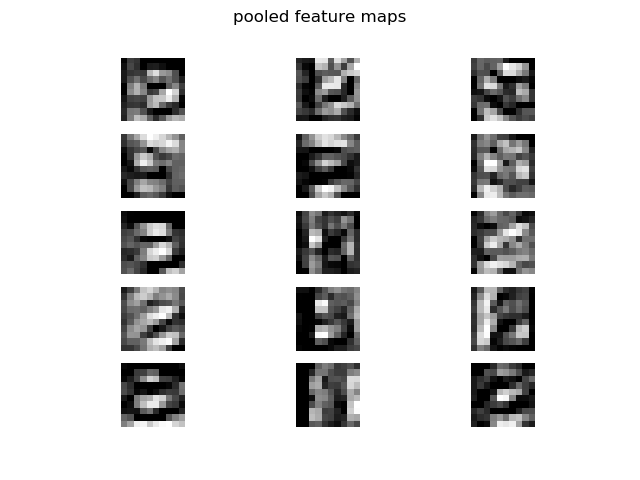
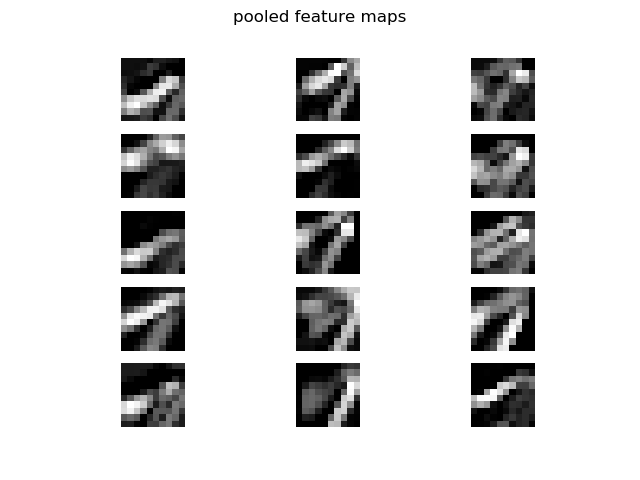
Part2a_2 is done

Changed region(s): [[0.7188, 0.0938, 0.8438, 0.9062], [0.1875, 0.125, 0.3125, 0.9062], [0.4375, 0.0938, 0.5625, 0.9062]]

diff --git a/project2a.py b/project2a.py
@@ -11,11 +11,12 @@ from theano.tensor.signal import pool
  
 np.random.seed(10)
 
+learning_rate = 0.05
 batch_size = 128
 decay_param = 1e-4
-noIters = 25
+noIters = 100
 momentum = 0.1
-part_number = 1
+part_number = 2
 debug = False
 
 def init_weights_bias4(filter_shape, d_type):
@@ -28,6 +29,10 @@ def init_weights_bias4(filter_shape, d_type):
             dtype=d_type)
     b_values = np.zeros((filter_shape[0],), dtype=d_type)
     return theano.shared(w_values,borrow=True), theano.shared(b_values, borrow=True)
+
+def init_velocity(filter_shape, d_type):
+    w_values =  np.zeros(shape=filter_shape, dtype=d_type)
+    return theano.shared(w_values, borrow=True)
 
 def init_weights_bias2(filter_shape, d_type):
     fan_in = filter_shape[1]
@@ -76,11 +81,31 @@ def create_model(X, lstWeights, lstBiases):
 
     return y
 
-def sgd(cost, params, lr=0.05, decay=0.0001):
+def sgd(cost, weights, biases, lr=0.05, decay=1e-4):
+    params = weights+biases
     grads = T.grad(cost=cost, wrt=params)
     updates = []
     for p, g in zip(params, grads):
         updates.append([p, p - (g + decay*p) * lr])
+    return updates
+
+def sgd_momentum(cost, weights, biases, velocities, 
+    lr=0.05, decay=1e-4, momentum=0.1):
+    gradW = T.grad(cost=cost, wrt=weights)
+    gradB = T.grad(cost=cost, wrt=biases)
+    updates = []
+
+    for i in range(len(gradW)):
+        updates.append(
+            (velocities[i], 
+            momentum*velocities[i]-(gradW[i] + decay*weights[i]) * lr)
+        )
+        updates.append(
+            (weights[i], weights[i]+velocities[i])
+        )
+        updates.append(
+            (biases[i],biases[i]-(gradB[i]+decay*biases[i])*lr)
+        )
     return updates
 
 def shuffle_data (samples, labels):
@@ -89,42 +114,40 @@ def shuffle_data (samples, labels):
     samples, labels = samples[idx], labels[idx]
     return samples, labels
     
-def create_weights_biases(dtype,small_weight_space=debug):
+def create_weights_biases(dtype,config):
     weights = []
     biases = []
 
-    if(small_weight_space):
-        # Conv layer 1 - 3 9x9 filters (giving 20x20 feature maps)
-        w,b = init_weights_bias4( (3, 1, 9, 9), dtype )
+    for con in config:
+        if(len(con)==2):
+            w,b = init_weights_bias2(con, dtype)
+        else:
+            w,b = init_weights_bias4(con, dtype)
         weights.append(w); biases.append(b)
-        # Max Pool 2x2 - giving 10x10 feature maps
-        # Conv layer 2 - 3 5x5 filters (giving 6x6 feature maps)
-        w,b = init_weights_bias4( (3, 3, 5, 5), dtype )
-        weights.append(w); biases.append(b)
-        # Max Pool 2x2 - giving 3x3 feature maps
-        # Fully connected layer - 27 inputs to 10 outputs
-        w,b = init_weights_bias2( (3*3*3, 10), dtype )
-        weights.append(w); biases.append(b)
-        # Softmax layer - 10 inputs to 10 outputs
-        w,b = init_weights_bias2( (10, 10), dtype )
-        weights.append(w); biases.append(b)
-    else:
-        # Conv layer 1 - 15 9x9 filters (giving 20x20 feature maps)
-        w,b = init_weights_bias4( (15, 1, 9, 9), dtype )
-        weights.append(w); biases.append(b)
-        # Max Pool 2x2 - giving 10x10 feature maps
-        # Conv layer 2 - 20 5x5 filters (giving 6x6 feature maps)
-        w,b = init_weights_bias4( (20, 15, 5, 5), dtype )
-        weights.append(w); biases.append(b)
-        # Max Pool 2x2 - giving 3x3 feature maps
-        # Fully connected layer - 180 inputs to 100 outputs
-        w,b = init_weights_bias2( (20*3*3, 100), dtype )
-        weights.append(w); biases.append(b)
-        # Softmax layer - 100 inputs to 10 outputs
-        w,b = init_weights_bias2( (100, 10), dtype )
-        weights.append(w); biases.append(b)
-
     return weights,biases
+
+def create_velocity(dtype,config):
+    velocities = []
+    for con in config:
+        v = init_velocity(con, dtype)
+        velocities.append(v)
+    return velocities
+
+# configure the network
+if debug:
+    config = (
+        (3, 1, 9, 9),
+        (3, 3, 5, 5),
+        (27, 10),
+        (10, 10)
+    )
+else:
+    config = (
+        (15, 1, 9, 9),  # 15 9x9 filters
+        (20, 15, 5, 5), # 20 5x5 filters
+        (180, 100),     # 100 neurons layer
+        (100, 10)       # 10 neurons softmax
+    )
 
 # load data
 trX, teX, trY, teY = mnist(12000,2000,onehot=True)
@@ -137,19 +160,23 @@ X = T.tensor4('X')
 Y = T.matrix('Y')
 
 # create weights and biases
-weights, biases = create_weights_biases(X.dtype)
+weights, biases = create_weights_biases(X.dtype, config)
 outputs = create_model(X, weights, biases)
+
+if part_number==2:
+    velocities = create_velocity(X.dtype, config)
 
 py_x = outputs[5]
 y_x = T.argmax(py_x, axis=1)
 cost = T.mean(T.nnet.categorical_crossentropy(py_x, Y))
 
-params = []
-for i in range(len(weights)):
-    params.append(weights[i])
-    params.append(biases[i])
-
-updates = sgd(cost, params, lr=0.05, decay=decay_param)
+if part_number==1:
+    updates = sgd(cost, weights, biases, lr=learning_rate, decay=decay_param)
+elif part_number==2:
+    updates = sgd_momentum(cost, weights, biases, velocities, lr=learning_rate, decay=decay_param, 
+        momentum=momentum)
+else:
+    raise IndexError("Part number out of bounds")
 
 train = theano.function(inputs=[X, Y], outputs=cost, updates=updates, allow_input_downcast=True)
 predict = theano.function(inputs=[X], outputs=y_x, allow_input_downcast=True)
